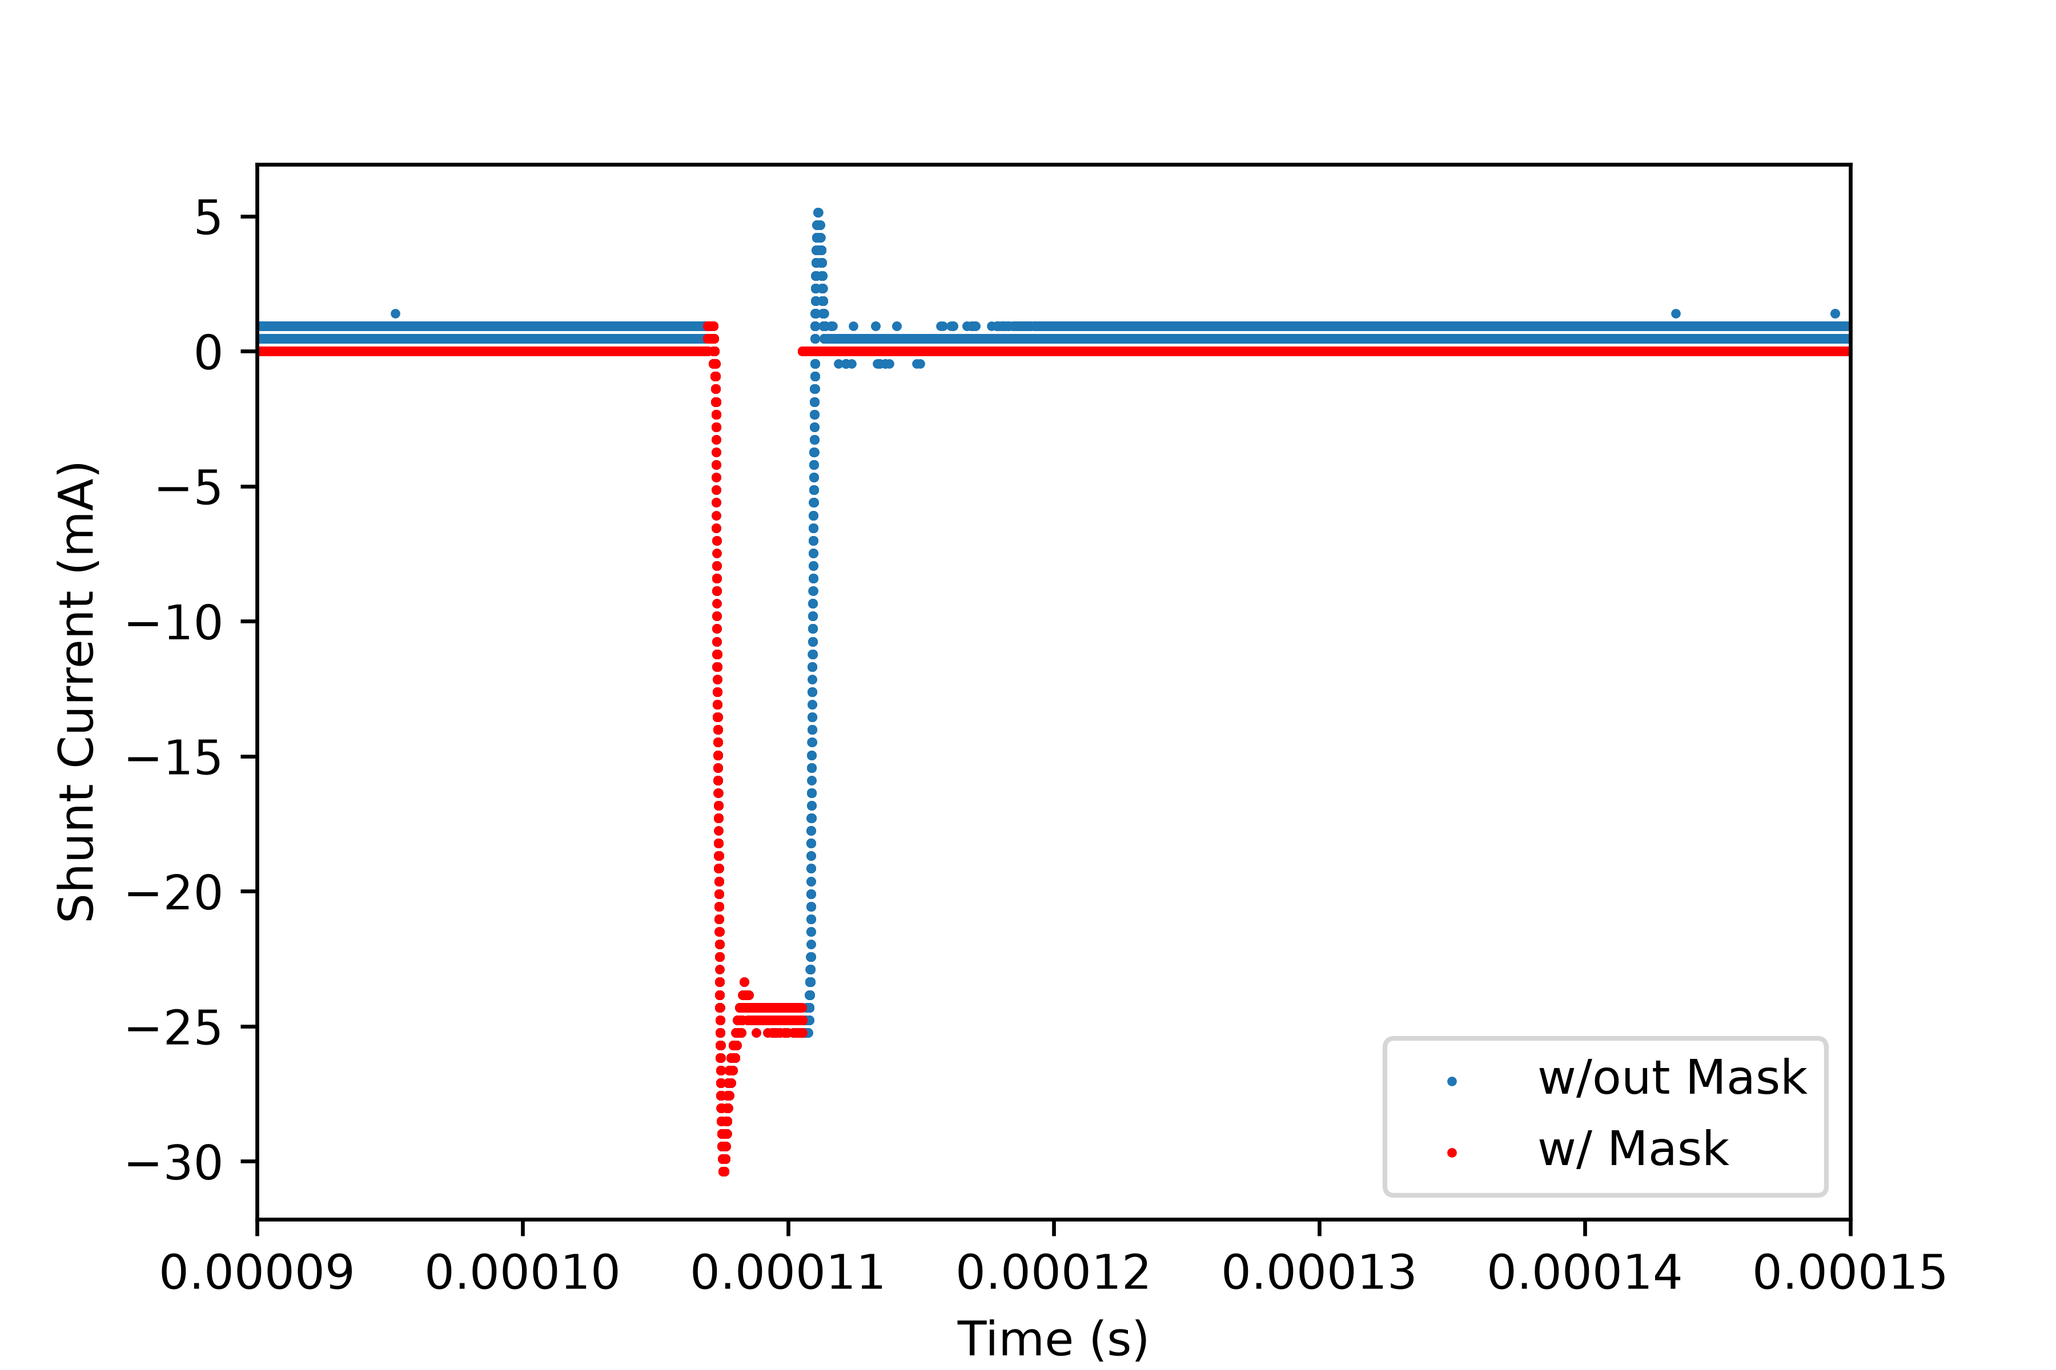
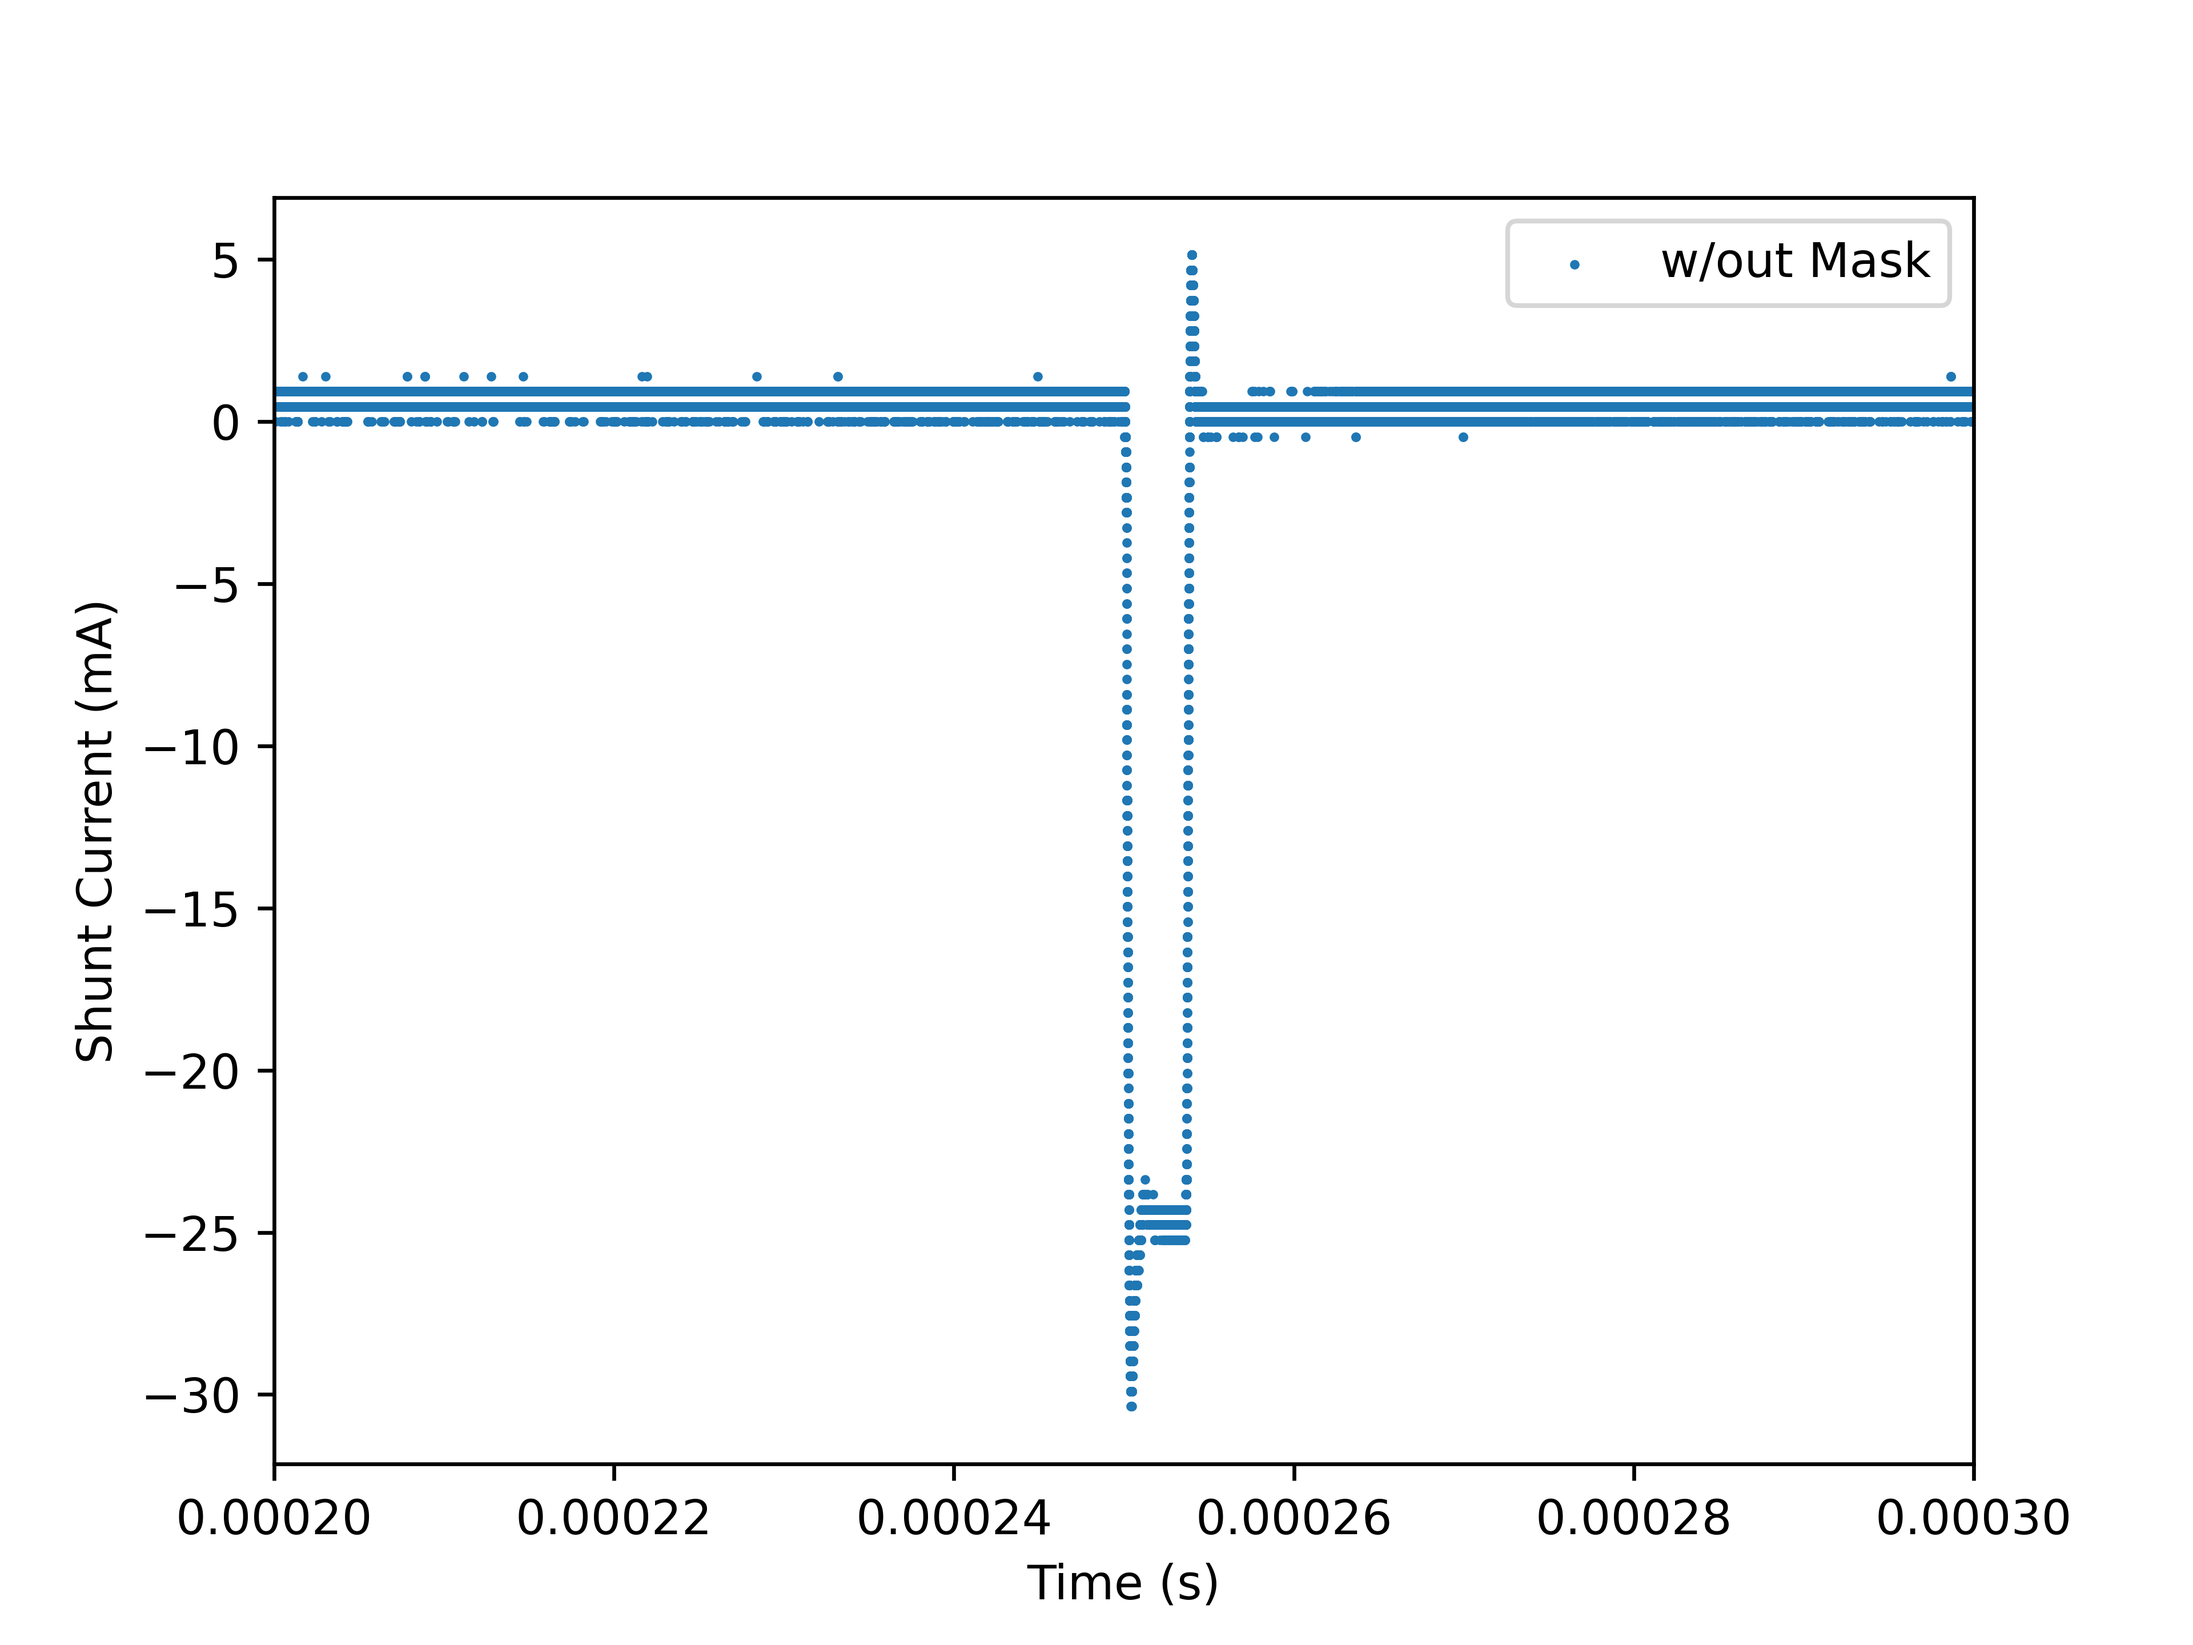
Calculate source voltage

diff --git a/Electrical/explore_trace.py b/Electrical/explore_trace.py
@@ -42,10 +42,15 @@ CH2_vals = df["CH2(V)"].to_numpy()
 shunt_voltage = CH1_vals
 cell_voltage = CH2_vals - shunt_voltage
 
+# Calculate the cell voltage at breakdown
+breakdown_cell = np.min(cell_voltage)
+print(f"Cell voltage at breakdown, kV: {breakdown_cell}")
+
 # Plot voltages
 fig2, ax = plt.subplots()
 ax.scatter(time_vals, shunt_voltage*1e-3, s=1, label="Shunt Voltage")
 ax.scatter(time_vals, cell_voltage*1e-3, s=1, label="Cell Voltage")
+ax.axhline(breakdown_cell*1e-3, label="Cell Voltage @ Breakdown")
 ax.set_xlabel("Time (s)")
 ax.set_ylabel("Voltage (kV)")
 plt.legend()
@@ -55,16 +60,16 @@ plt.savefig("voltage_explore.png",dpi=600)
 fig3, ax = plt.subplots()
 ax.scatter(time_vals, shunt_voltage*1e-3, s=1, label="Shunt Voltage")
 ax.scatter(time_vals, cell_voltage*1e-3, s=1, label="Cell Voltage")
+ax.axhline(breakdown_cell*1e-3, color='r', label="Cell Voltage @ Breakdown")
 ax.set_xlabel("Time (s)")
 ax.set_ylabel("Voltage (kV)")
-ax.set_xlim(left=0.9e-4, right=1.5e-4)
+ax.set_xlim(left=2e-4, right=3e-4)
 plt.legend()
 plt.savefig("voltage_explore_zoom.png",dpi=600)
 
-"""
 # Calculate current waveform from CH1
 shunt_res = 100e3 # 100 kOhm => 100e3 Ohm
-I_shunt = (shunt_voltage/shunt_res)*1e3 # mA
+I_shunt = (shunt_voltage/shunt_res) # A
 # Grid check
 print(f"All possible values of current: {np.unique(np.round(I_shunt, 6))} mA")
 
@@ -74,9 +79,9 @@ print(f"Average current across waveform w/out correction: {np.round(I_shunt_mean
 I_shunt_masked = I_shunt*on_mask
 
 # Plot current waveform
-fig2, ax = plt.subplots()
-ax.plot(time_vals, I_shunt, label="w/out Mask")
-ax.plot(time_vals, I_shunt_masked, color='r', label="w/ Mask")
+fig4, ax = plt.subplots()
+ax.plot(time_vals, I_shunt*1e3, label="w/out Mask")
+ax.plot(time_vals, I_shunt_masked*1e3, color='r', label="w/ Mask")
 ax.set_xlabel("Time (s)")
 ax.set_ylabel("Shunt Current (mA)")
 plt.legend()
@@ -92,23 +97,34 @@ print(f"Standard dev. of peak current: {I_shunt_on_std:.6f} mA")
 print(f"Average current across waveform w/ correction: {I_shunt_corrected_mean:.6f} mA")
 
 # Plot current pulse - zoom
-fig3, ax = plt.subplots()
-ax.scatter(time_vals, I_shunt, s=1, label="w/out Mask")
-ax.scatter(time_vals, I_shunt_masked, s=1, color='r', label="w/ Mask")
+fig5, ax = plt.subplots()
+ax.scatter(time_vals, I_shunt*1e3, s=1, label="w/out Mask")
+# ax.scatter(time_vals, I_shunt_masked, s=1, color='r', label="w/ Mask")
 ax.set_xlabel("Time (s)")
 ax.set_ylabel("Shunt Current (mA)")
-ax.set_xlim(left=0.9e-4, right=1.5e-4)
+ax.set_xlim(left=2e-4, right=3e-4)
 plt.legend()
 plt.savefig("current_explore_zoom.png",dpi=600)
 
-# Plot CH2 - zoom
-CH2_vals = df["CH2(V)"].to_numpy()
-fig4, ax = plt.subplots()
-ax.scatter(time_vals, CH2_vals, s=1)
-ax.set_xlabel("Time (s)")
-ax.set_ylabel("Cell Voltage (V)")
-ax.set_xlim(left=0.9e-4, right=1.5e-4)
-plt.legend()
-plt.savefig("cell_voltage_zoomed.png",dpi=600)
+# Calculate source voltage
+ballast_res = 20e3
+source_voltage = cell_voltage + (ballast_res + shunt_res)*I_shunt
 
-"""
+# Plot source voltage
+fig6, ax = plt.subplots()
+ax.scatter(time_vals, source_voltage*1e-3, s=1)
+# ax.scatter(time_vals, I_shunt_masked, s=1, color='r', label="w/ Mask")
+ax.set_xlabel("Time (s)")
+ax.set_ylabel("Source Voltage (kV)")
+plt.legend()
+plt.savefig("source_voltage_explore.png",dpi=600)
+
+# Plot source voltage - zoomed
+fig7, ax = plt.subplots()
+ax.scatter(time_vals, source_voltage*1e-3, s=1)
+# ax.scatter(time_vals, I_shunt_masked, s=1, color='r', label="w/ Mask")
+ax.set_xlabel("Time (s)")
+ax.set_ylabel("Source Voltage (kV)")
+ax.set_xlim(left=2e-4, right=3e-4)
+plt.legend()
+plt.savefig("source_voltage_zoom.png",dpi=600)
